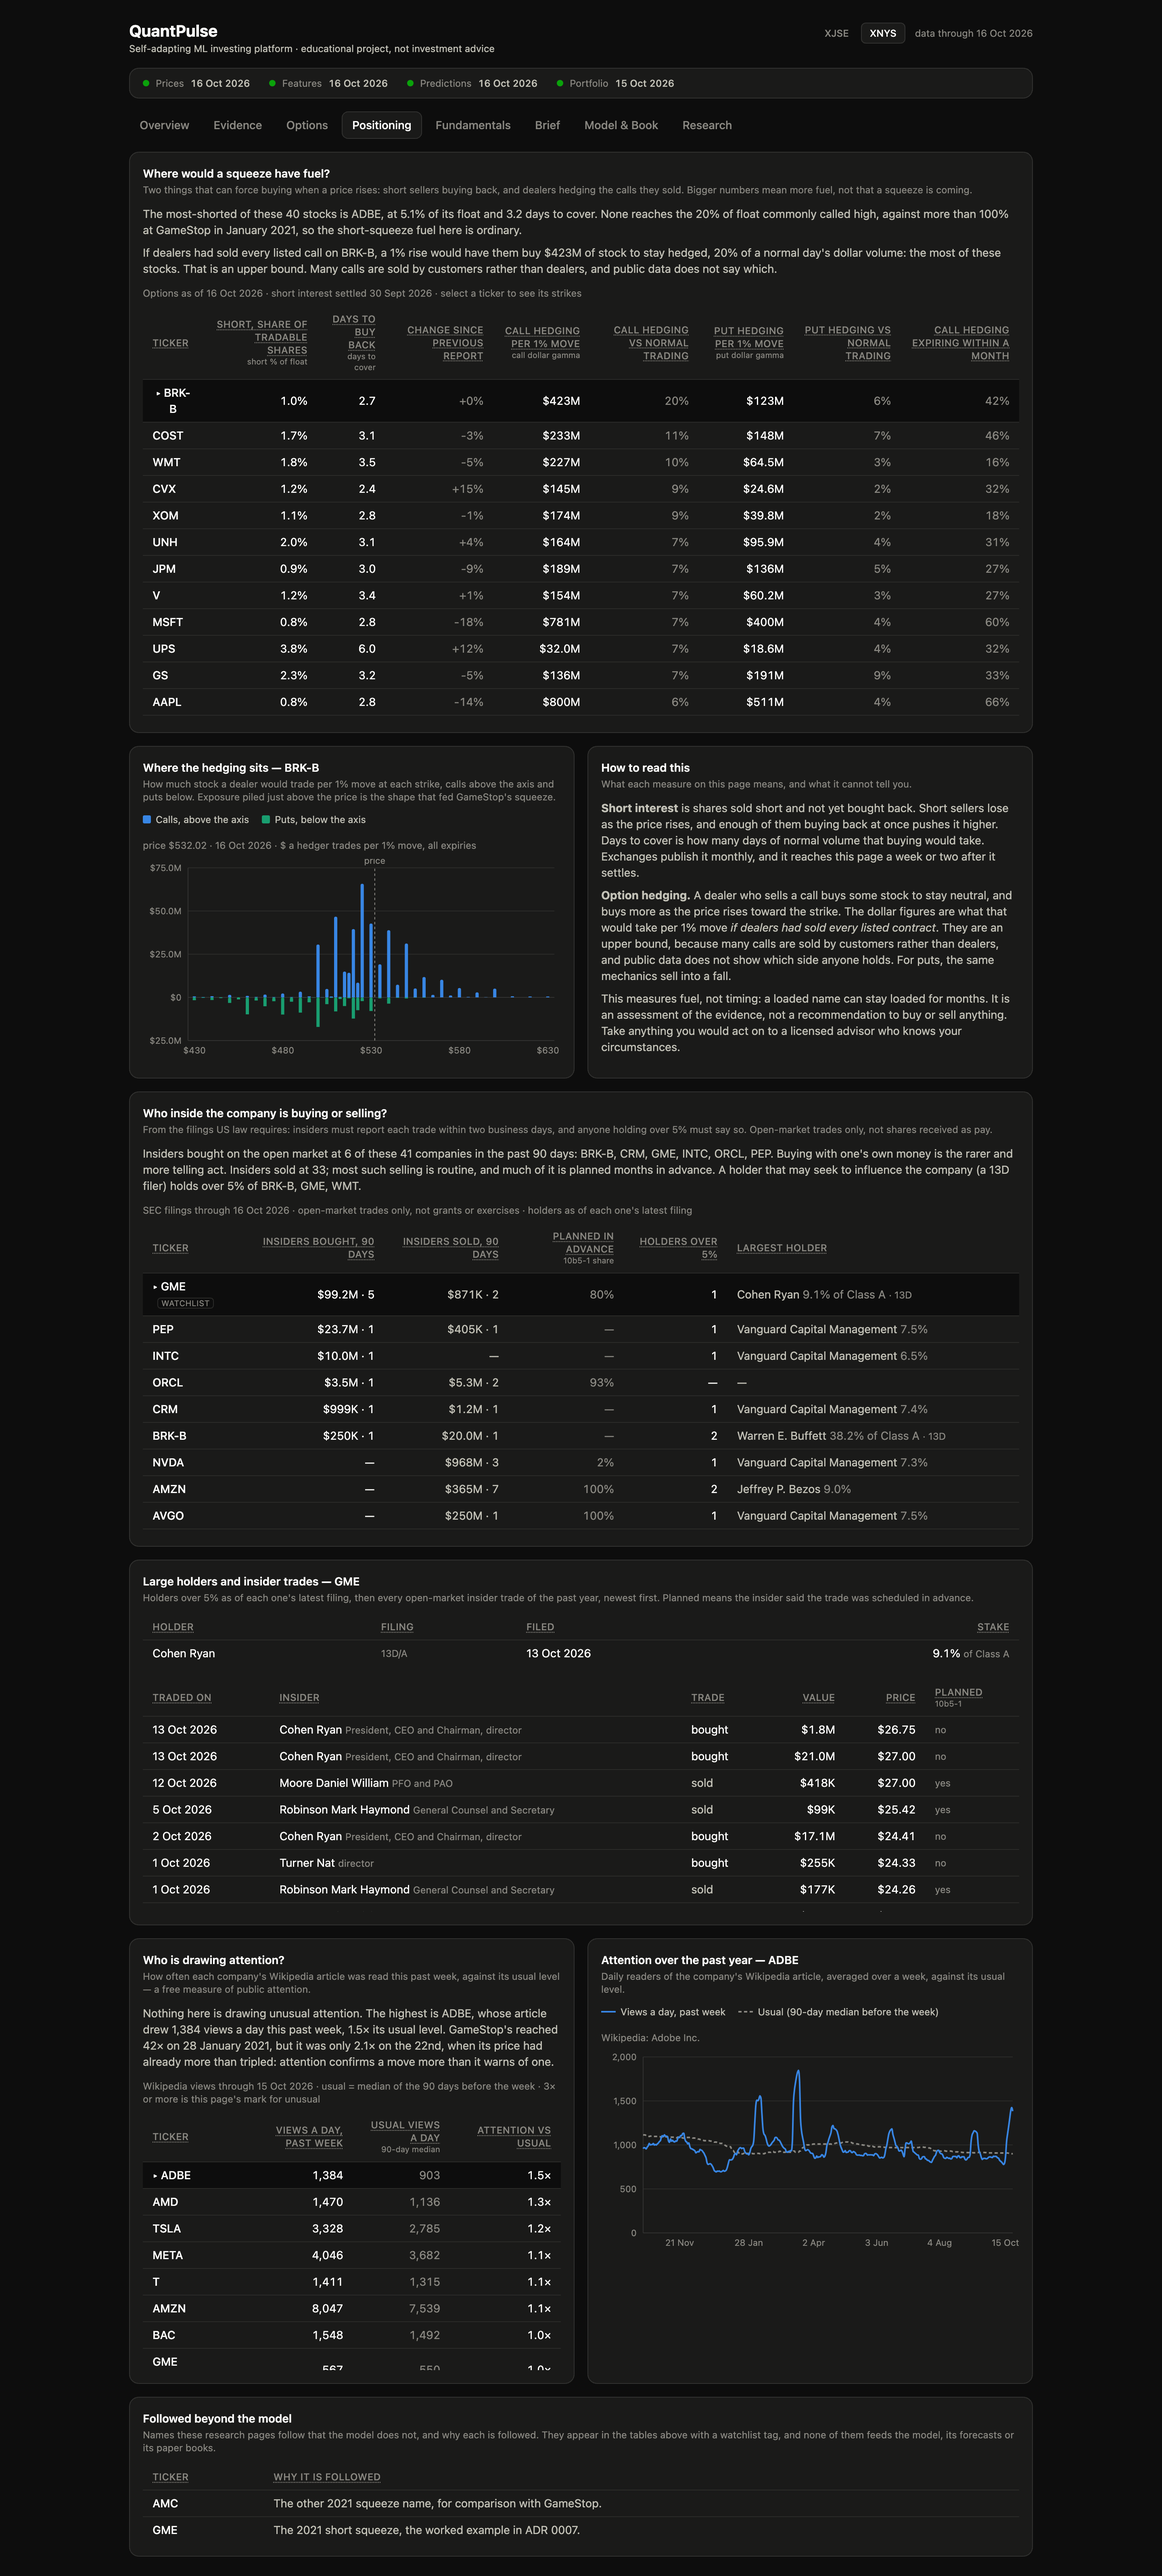
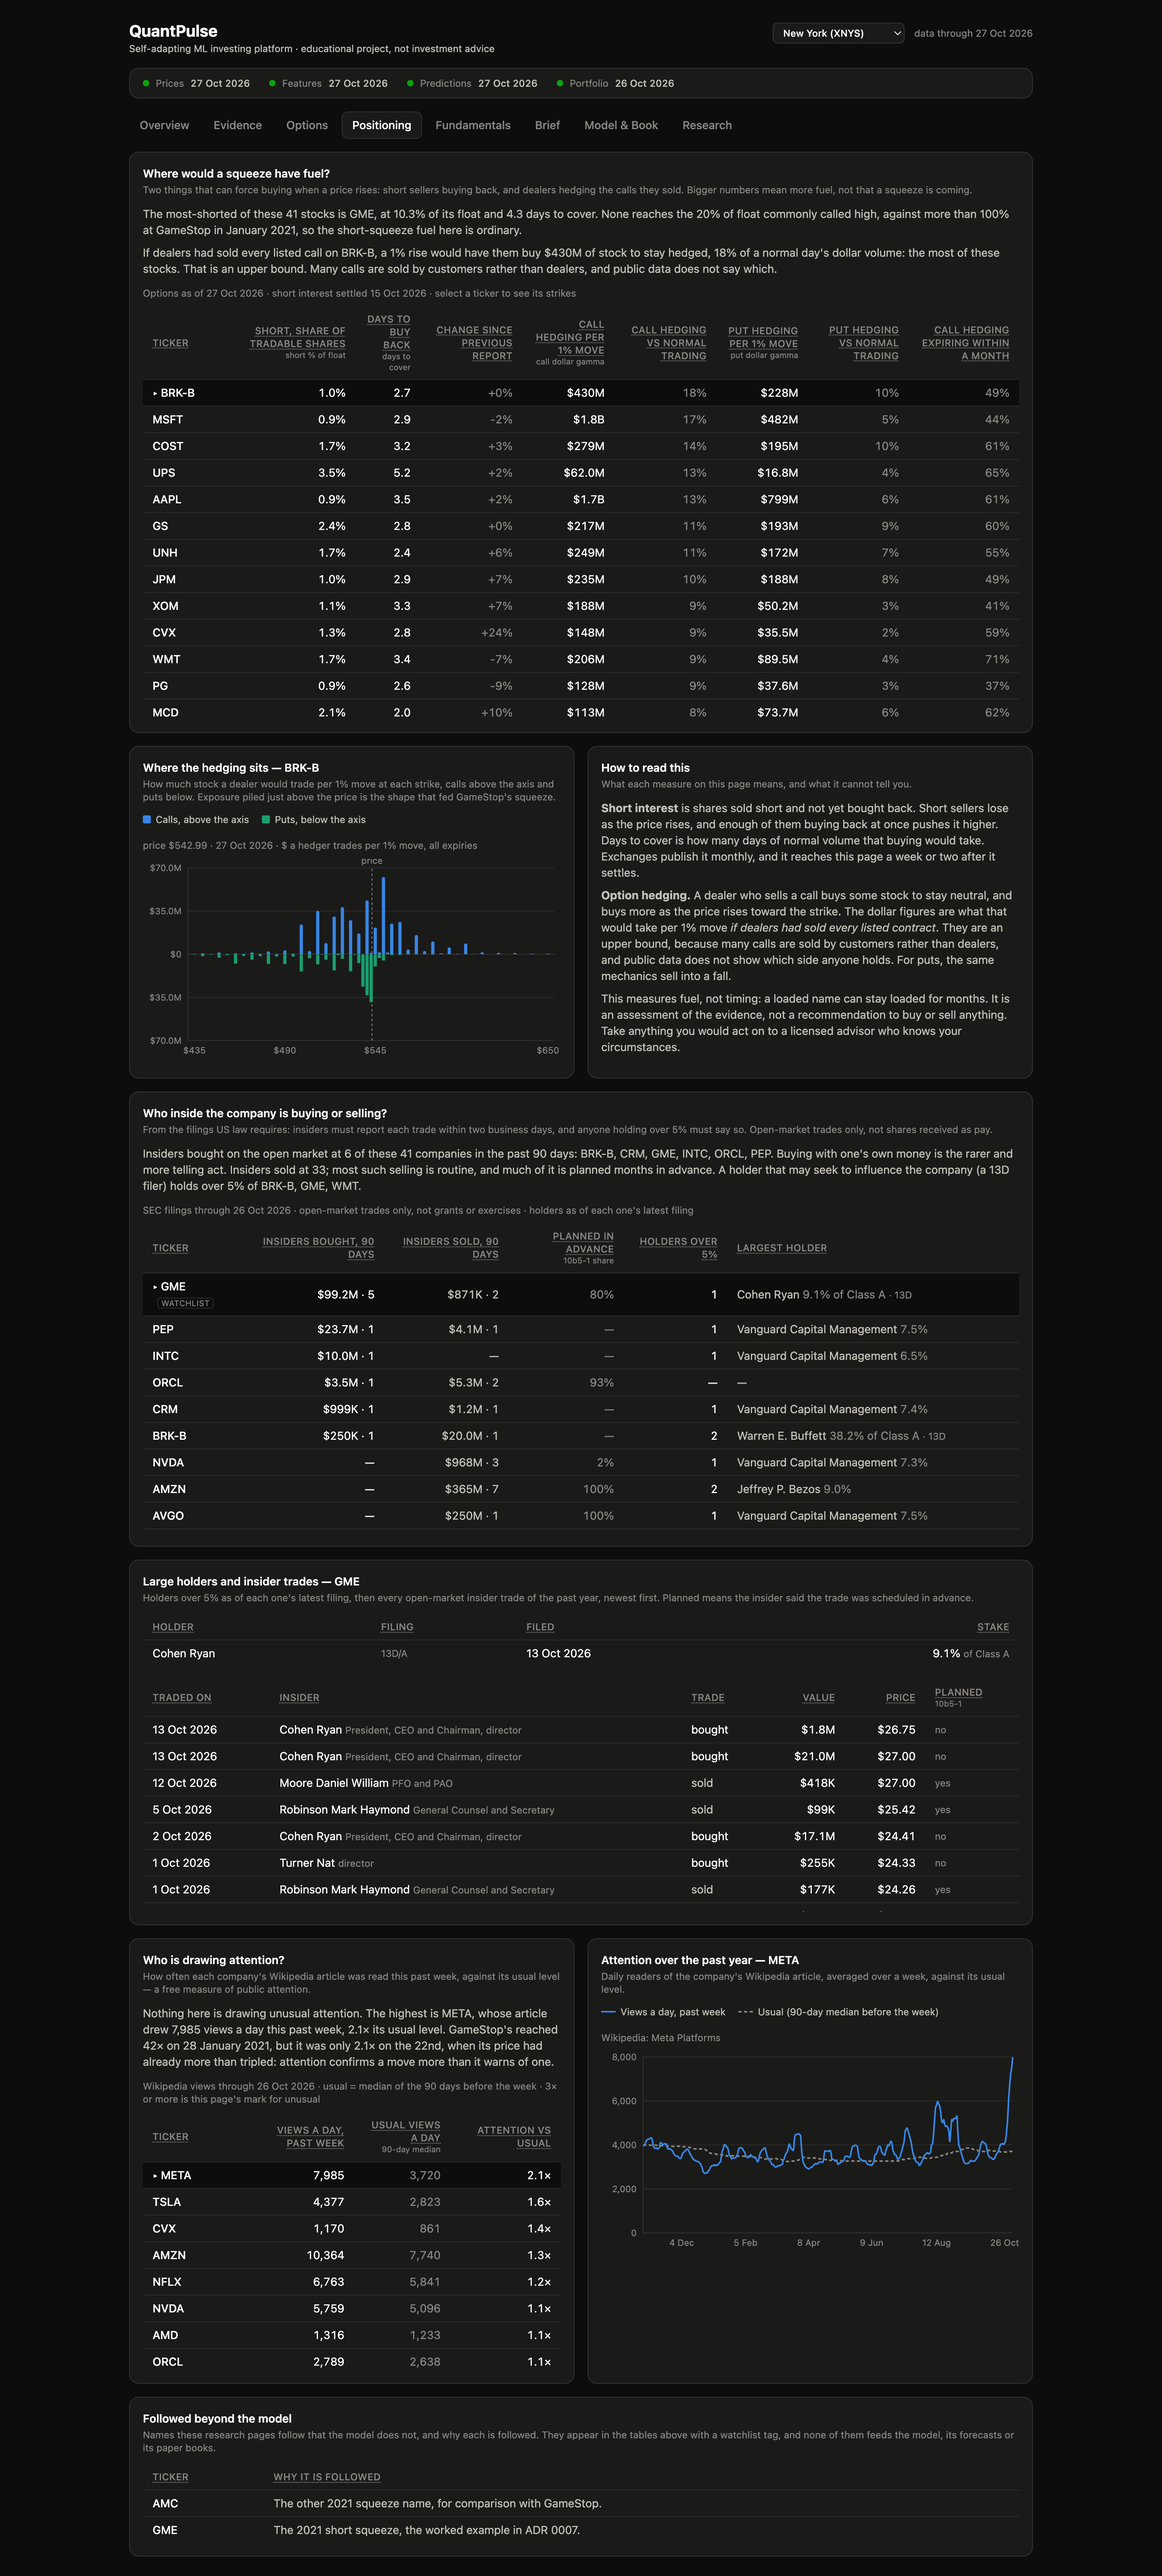
Describe seven markets in the README, with fresh screenshots and live figures
The README still said the platform ran two markets and showed the XNYS / XJSE toggle, which
became a menu naming seven markets on 2026-10-27. The screenshots are regenerated from the
running dashboard, so the live-record table, the Evidence and JSE captions are refreshed to the
same date (through 2026-10-26: 70 NYSE sessions, 66 JSE), and the sentences built on the old
numbers are rewritten to match: the JSE's alpha has since turned negative, still well inside its
error, and its 60-session review happened on 2026-10-20.

The runbook records the first seven-market nights: the European ingests take 17-25 s each and all
five evening ingests were done by 21:32; processing takes about 6.5 min and research about 3.

diff --git a/README.md b/README.md
@@ -5,8 +5,9 @@
 [![Python 3.12+](https://img.shields.io/badge/python-3.12%2B-3776AB?logo=python&logoColor=white)](pyproject.toml)
 [![React 19](https://img.shields.io/badge/react-19-61DAFB?logo=react&logoColor=black)](web/package.json)
 
-A local-first MLOps platform for a **self-adapting ML investing model**, running **two markets —
-NYSE and the JSE** side by side. Fully free, fully open-source, runs on one machine via Docker:
+A local-first MLOps platform for a **self-adapting ML investing model**, running **seven markets**
+side by side: New York, Johannesburg and London, and since October 2026 Frankfurt, Paris, Zurich
+and Amsterdam. Fully free, fully open-source, runs on one machine via Docker:
 automated per-market data pipelines, scheduled retraining with champion/challenger promotion, drift
 monitoring, a serving API, and a live dashboard with a market switcher.
 
@@ -16,44 +17,49 @@ model's signals are research output in a sandbox — not trade recommendations.
 ## The live record
 
 The only numbers here worth judging. Each market's live phase starts at its first champion
-promotion; everything before that is an in-sample replay, kept separate on purpose.
+promotion; everything before that is an in-sample replay, kept separate on purpose. The table
+covers the two markets with enough live sessions to read. London's first champion was promoted on
+2026-10-18 and Zurich's on 2026-10-28, so both are still below the 20-session floor under which
+ratios are withheld; Frankfurt, Paris and Amsterdam have no champion yet, because their first
+candidates did not clear the gate.
 
 | | NYSE (XNYS) | JSE (XJSE) |
 |---|---|---|
-| Live sessions | 63 (2026-07-20 to 2026-10-15) | 59 (2026-07-23 to 2026-10-15) |
-| Total return | **+1.77%** | **+1.40%** |
-| Sharpe | **+0.65** | **+0.80** |
-| Max drawdown | −4.16% | −2.23% |
-| Alpha (annualized) | +4.7% ± 24.0% | +2.4% ± 16.2% |
-| Alpha t-statistic | **+0.19** | **+0.15** |
-| Information ratio | −0.47 | −0.26 |
-| Beta / R² | −0.08 / 0.005 | −0.03 / 0.004 |
-| Win rate | 52.4% | 49.2% |
+| Live sessions | 70 (2026-07-20 to 2026-10-26) | 66 (2026-07-23 to 2026-10-26) |
+| Total return | **+2.29%** | **+0.46%** |
+| Sharpe | **+0.74** | **+0.27** |
+| Max drawdown | −4.89% | −2.58% |
+| Alpha (annualized) | +5.7% ± 22.6% | −2.0% ± 14.9% |
+| Alpha t-statistic | **+0.25** | **−0.13** |
+| Information ratio | −0.13 | +0.04 |
+| Beta / R² | −0.12 / 0.013 | 0.00 / 0.000 |
+| Win rate | 54.3% | 50.0% |
 
 **Neither market has produced a result yet.** After three months live, both books are up, the
-NYSE by 1.8% and the JSE by 1.4%, and neither is distinguishable from zero. Each alpha's standard
-error is larger than the estimate: t of +0.19 and +0.15, against the ~2 that would separate
-either from noise. The NYSE book was up 3.5% two sessions earlier, which is how much a few days
+NYSE by 2.3% and the JSE by 0.5%, and neither is distinguishable from zero. Each alpha's standard
+error is larger than the estimate: t of +0.25 and −0.13, against the ~2 that would separate
+either from noise. The JSE's alpha was +2.4% seven sessions earlier, which is how much a few days
 move a figure this young. On the JSE the champion's own forward skill is about zero
-([scored against momentum](docs/findings/champion-vs-momentum.md)), and the standing decision to
-keep running it comes up for review at 60 live sessions, around 2026-10-20.
+([scored against momentum](docs/findings/champion-vs-momentum.md)); the standing decision to keep
+running it was reviewed at 60 live sessions on 2026-10-20 and kept; the shadow run's verdict is the
+next moment to change it.
 
 An earlier version of this table, a month in, quoted a −22.6% NYSE alpha and argued "the sign is
 the sign". Two months later the same alpha is positive. A sign is only a sign once it clears its
 own error bar, and neither has. The annualized figures are a few percent of total return scaled
 up to a year, not a rate anything has sustained.
 
-Beta −0.08 and −0.03, with R² below 0.01, confirm both books are genuinely market-neutral, so
-whatever these returns are, they are not disguised market exposure. The information ratio is
-negative on both markets even though both made money: it is benchmark-relative and not
-beta-adjusted, so a market-neutral book that sits out a rising index scores badly on it by
-construction. Alpha and the information ratio answer different questions and are expected to
-disagree here.
+Beta −0.12 and 0.00, with R² near zero (0.013 and below 0.001), confirm both books are genuinely
+market-neutral, so whatever these returns are, they are not disguised market exposure. The
+information ratio is negative on the NYSE even though its book made money: it is
+benchmark-relative and not beta-adjusted, so a market-neutral book that sits out a rising index
+scores badly on it by construction. Alpha and the information ratio answer different questions
+and are expected to disagree here.
 
 Ratios stay withheld below 20 sessions, because a handful of days annualizes into a
 confident-looking number that is pure noise. The floor is necessary and not sufficient, which is
 what the standard error column is for: clearing 20 days does not make an estimate mean anything,
-and at 60 it still does not here.
+and at 70 it still does not here.
 
 The replay figures below are in-sample throughout. They describe a fit, not a forecast.
 
@@ -72,7 +78,7 @@ Model &amp; Book, and Research tabs</summary>
 
 The CAPM decomposition is what makes the record readable: **a low beta and near-zero R²
 confirm the book is genuinely market-neutral**, so comparing its raw return to SPY was never
-the right test. The screenshots (taken 2026-10-17) show the live phase — 63 sessions out of
+the right test. The screenshots (taken 2026-10-28) show the live phase — 70 sessions out of
 sample on the NYSE — where alpha's error band still spans zero, and the panel says so rather
 than leaving the headline number to speak. The same decomposition for both markets is in the
 table at the top of this page.
@@ -110,10 +116,10 @@ built on the two mechanics behind GameStop in January 2021. For each name with o
 shows the short interest, meaning shares sold short and not yet bought back. Beside that is the
 stock dealers would have to buy per 1% rise if they had sold every listed call. On 2026-10-16 the
 most-shorted of the 40 stocks was ADBE, at 5.1% of its float; GameStop's was above 100% then. The
-strike chart shows where a name's hedging exposure sits against its price. Below that, for both
-markets, is **attention**: each stock's daily Wikipedia views against its usual level. That is the
-one research measure the JSE has free. GameStop's reached 42× its usual on 28 January 2021, but
-only 2.1× on the 22nd, when its price had already tripled.
+strike chart shows where a name's hedging exposure sits against its price. Below that, for every
+market, is **attention**: each stock's daily Wikipedia views against its usual level. That is the
+one research measure the markets outside New York have free. GameStop's reached 42× its usual on
+28 January 2021, but only 2.1× on the 22nd, when its price had already tripled.
 
 Between them, for US stocks, is **ownership** from the filings US law requires: insiders' trades
 in their own company's stock (Form 4) and every holder over 5% (Schedules 13D and 13G). Only
@@ -170,9 +176,9 @@ when one fires.
 Switching to XJSE re-scopes everything: **beta is measured against STX40.JO** (not SPY —
 comparing a JSE book to the S&P would measure the rand, not the strategy), the Options tab
 is gone (no free JSE chain data), and the numbers are the JSE champion's. Its in-sample
-replay looked strong — alpha +16%, IR 0.42, all three books positive — but live, over 59
-sessions to 2026-10-15, its alpha is +2.4% ± 16.2% a year (the current champion is up 1.7%
-over its 57): nothing it could claim in either direction.
+replay looked strong — alpha +16%, IR 0.42, all three books positive — but live, over 66
+sessions to 2026-10-26, its alpha is −2.0% ± 14.9% a year (the current champion is up 0.7%
+over its 64): nothing it could claim in either direction.
 
 There is a sharper caveat than that. `quantpulse baseline` scores every champion against
 simple rules on the same holdout, and on the JSE **a plain 63-day momentum rule beats the
@@ -204,10 +210,11 @@ flowchart LR
     API --> WEB[React dashboard]
 ```
 
-- **Two markets, one platform** — NYSE and the JSE run side by side. `exchange` is a first-class
-  dimension: per-market calendars and post-close schedules (in each market's timezone),
-  cross-sectional features ranked *within* a market, one champion per market, and a dashboard
-  switcher. Cross-sectional ranking that mixed Naspers with Apple would be noise, so it never does.
+- **Seven markets, one platform** — New York, Johannesburg, London, Frankfurt, Paris, Zurich and
+  Amsterdam run side by side. `exchange` is a first-class dimension: per-market calendars and
+  post-close schedules (in each market's timezone), cross-sectional features ranked *within* a
+  market, one champion per market, and a dashboard market menu. Cross-sectional ranking that mixed
+  Naspers with Apple would be noise, so it never does.
 - **Ingestion** — daily OHLCV bars for a configurable multi-market universe
   ([configs/universe.yaml](configs/universe.yaml)), with retries, rate-limit respect, vendor
   unit-glitch repair (Yahoo occasionally reports JSE prices in Rand not cents), and data-quality
@@ -282,7 +289,7 @@ market ingests after its own close in its own timezone, processing runs once aft
 latest close, and retraining runs weekly plus on detected drift. The dashboard's
 pre-champion equity history is an **in-sample replay** to seed the charts — the live track
 record accrues from the first scheduled runs onward. Switch markets on the dashboard with
-the XNYS / XJSE toggle (also in the URL: `?market=XJSE`).
+the market menu (also in the URL: `?market=XJSE`).
 
 | UI | URL |
 |---|---|

diff --git a/docs/runbook.md b/docs/runbook.md
@@ -36,19 +36,20 @@ switching off at 08:00 skips them, which loses nothing but the report.
 
 ### What runs in those windows
 
-Durations measured 2026-09-19 over the preceding nine days.
+Durations measured 2026-09-19 over the preceding nine days; the European ingests, processing and
+research re-measured on the first nights with seven markets (2026-10-27/28).
 
 | time (SAST) | what | duration | if the laptop is off |
 |---|---|---|---|
 | 19:30 Mon–Fri | JSE ingest | seconds | recovered by the catch-up sensor |
 | 20:30 Mon–Fri | London ingest (21:30 from late October to late March) | seconds | recovered by the catch-up sensor |
-| 20:30 Mon–Fri | Frankfurt, Paris, Zurich and Amsterdam ingests, from M13's backfill (21:30 from late October to late March) | seconds each; they queue one at a time behind London | recovered by the catch-up sensor |
+| 20:30 Mon–Fri | Frankfurt, Paris, Zurich and Amsterdam ingests (21:30 from late October to late March) | 17–25 s each; they queue one at a time behind London, and all five were done by 21:32 on 2026-10-27 | recovered by the catch-up sensor |
 | ~22:10–22:35 Mon–Fri | options snapshot | 3–11 min | **recoverable only until 06:00** |
 | 23:30 Mon–Fri | research watchlist: bars and chains | under a minute | that evening's watchlist chains are not captured; bars catch up the next evening |
 | 00:30 Tue–Sat | NYSE ingest | seconds | recovered by the catch-up sensor |
-| 01:00 Tue–Sat | processing | 4–7 min | recovered by the catch-up sensor |
+| 01:00 Tue–Sat | processing | about 6.5 min with seven markets (3–4 with three) | recovered by the catch-up sensor |
 | 07:00 daily | backup | about a minute | skipped for that day |
-| 13:00 Mon–Fri | research: short interest, attention, ownership filings, fundamentals | a minute or two | caught up by the next run, which fetches whatever it has not stored |
+| 13:00 Mon–Fri | research: short interest, attention, ownership filings, fundamentals | about 3 min with seven markets (under a minute with three) | caught up by the next run, which fetches whatever it has not stored |
 | 15:00 Saturday | retrain | 1.4 min with three markets (2026-10-24) | re-run on return, unless killed mid-run |
 
 The launchd checks in [Host agents](#host-agents-launchd) are reports: a skipped one loses

diff --git a/docs/roadmap.md b/docs/roadmap.md
@@ -7,7 +7,8 @@ For *how* it was built and every bug paid for along the way, see
 ## What this project is
 
 A local-first, zero-cost MLOps platform for a self-adapting ML investing model, now running
-**three markets — NYSE, the JSE and London**. Dagster orchestrates daily ingest → features → champion
+**seven markets — NYSE, the JSE and London, and since 2026-10-27 Frankfurt, Paris, Zurich and
+Amsterdam**. Dagster orchestrates daily ingest → features → champion
 scoring → paper books → drift checks per market; weekly and drift-triggered retraining
 promotes challengers through the MLflow registry; dbt builds analytics marts; FastAPI serves
 them; a React dashboard presents the evidence with a market switcher. Everything runs free
